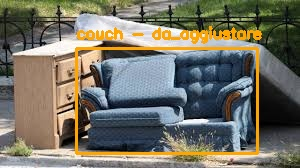
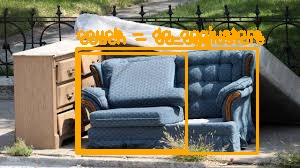
image

Changed region(s): [[0.24, 0.1786, 0.9, 0.9226]]

diff --git a/furniture_system.py b/furniture_system.py
@@ -1060,7 +1060,7 @@ class FurnitureDetectorSystem:
         
         return area_inter / area_union if area_union > 0 else 0.0
     
-    def filtra_box_sovrapposti(self, detections: List[Dict], iou_threshold: float = 0.5) -> List[Dict]:
+    def filtra_box_sovrapposti(self, detections: List[Dict], iou_threshold: float = 0.20) -> List[Dict]:
         """
         Rimuove detection sovrapposte, tenendo quella con area maggiore
         """
@@ -1399,7 +1399,7 @@ class FurnitureDetectorSystem:
                         'immagine': str(image_path)
                     }
                     detections.append(detection)
-                detections = self.filtra_box_sovrapposti(detections, iou_threshold=0.05)
+                detections = self.filtra_box_sovrapposti(detections, iou_threshold=0.85)
             return detections
             
         except Exception as e:
